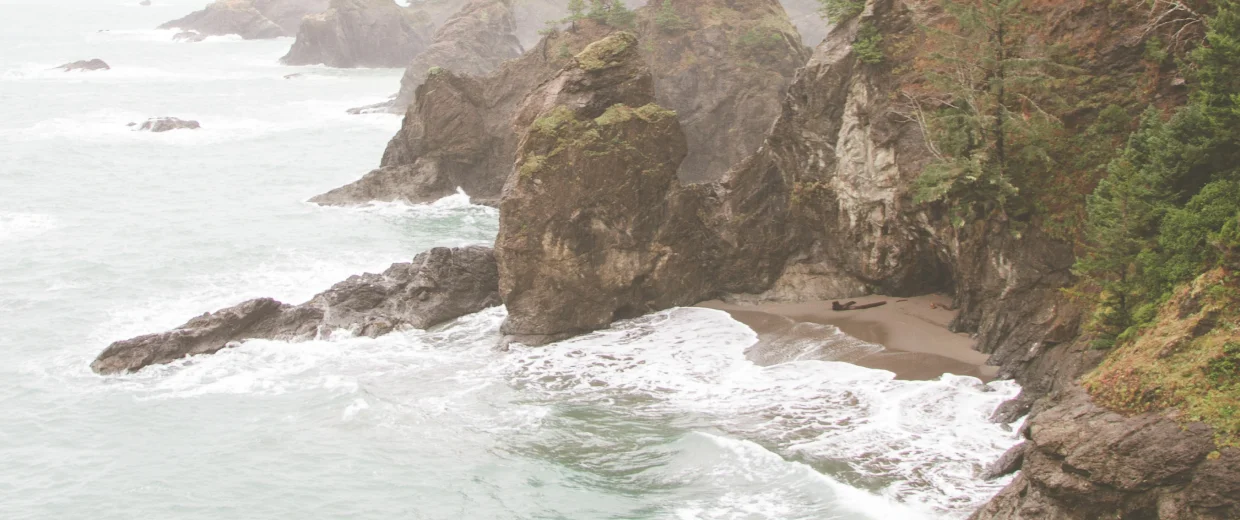
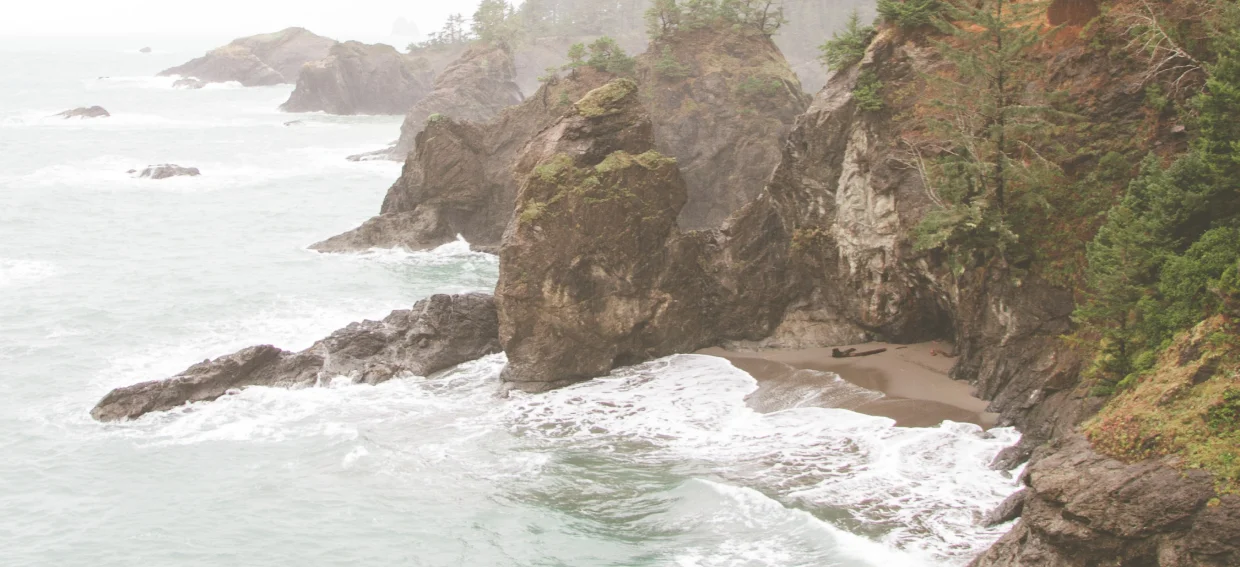
review: some refactoring

diff --git a/src/components/styles/homepageBanner.scss b/src/components/styles/homepageBanner.scss
@@ -7,14 +7,14 @@
   background-attachment: fixed;
   width: 100%;
   height: 100%;
-  background-position: 0 min(150px, 72%);
+  background-position: 0 90px;
   background-size: 100vw;
 }
 
 @include responsive(mobiles, $responsive-banner-width-offset) {
   .homepage.banner-wrapper .banner-background {
     background-size: cover;
-    background-position: top;
+    background-position: 50% min(12vw, 60px);
     background-attachment: scroll;
   }
 }

diff --git a/src/components/styles/navbar.scss b/src/components/styles/navbar.scss
@@ -1,7 +1,7 @@
 @import '../../design/breakpoints';
 @import '../../design/navbarSharedVariables';
 @import '../../design/pageWrapperSharedVariables';
-@import './navbarThemes';
+@import '../themes/navbar';
 
 $navbar-link-font-weight: 500;
 

diff --git a/src/pagesInner/styles/homepage.scss b/src/pagesInner/styles/homepage.scss
@@ -1,5 +1,5 @@
 @import '../../design/breakpoints';
-@import './homepagesThemes';
+@import '../themes/homepages';
 
 $unfocused-card-title-bg-color: rgba(0, 0, 0, 0.3);
 $focused-or-hovered-card-title-bg-color: rgba(0, 0, 0, 0.6);

diff --git a/src/pagesInner/styles/notfound.scss b/src/pagesInner/styles/notfound.scss
@@ -1,6 +1,6 @@
 @import '../../design/breakpoints';
 @import '../../design/navbarSharedVariables';
-@import './notfoundThemes.scss';
+@import '../themes/notfound.scss';
 
 $not-found-h2-font-size: 2.25em;
 

diff --git a/src/pagesInner/styles/about.scss b/src/pagesInner/styles/about.scss
@@ -1,4 +1,4 @@
-@import './aboutThemes';
+@import '../themes/about';
 
 .about-page-wrapper {
   margin: auto;

diff --git a/src/pagesInner/styles/housingSheets.scss b/src/pagesInner/styles/housingSheets.scss
@@ -1,1 +1,1 @@
-@import './housingSheetsThemes.scss';
+@import '../themes/housingSheets.scss';
